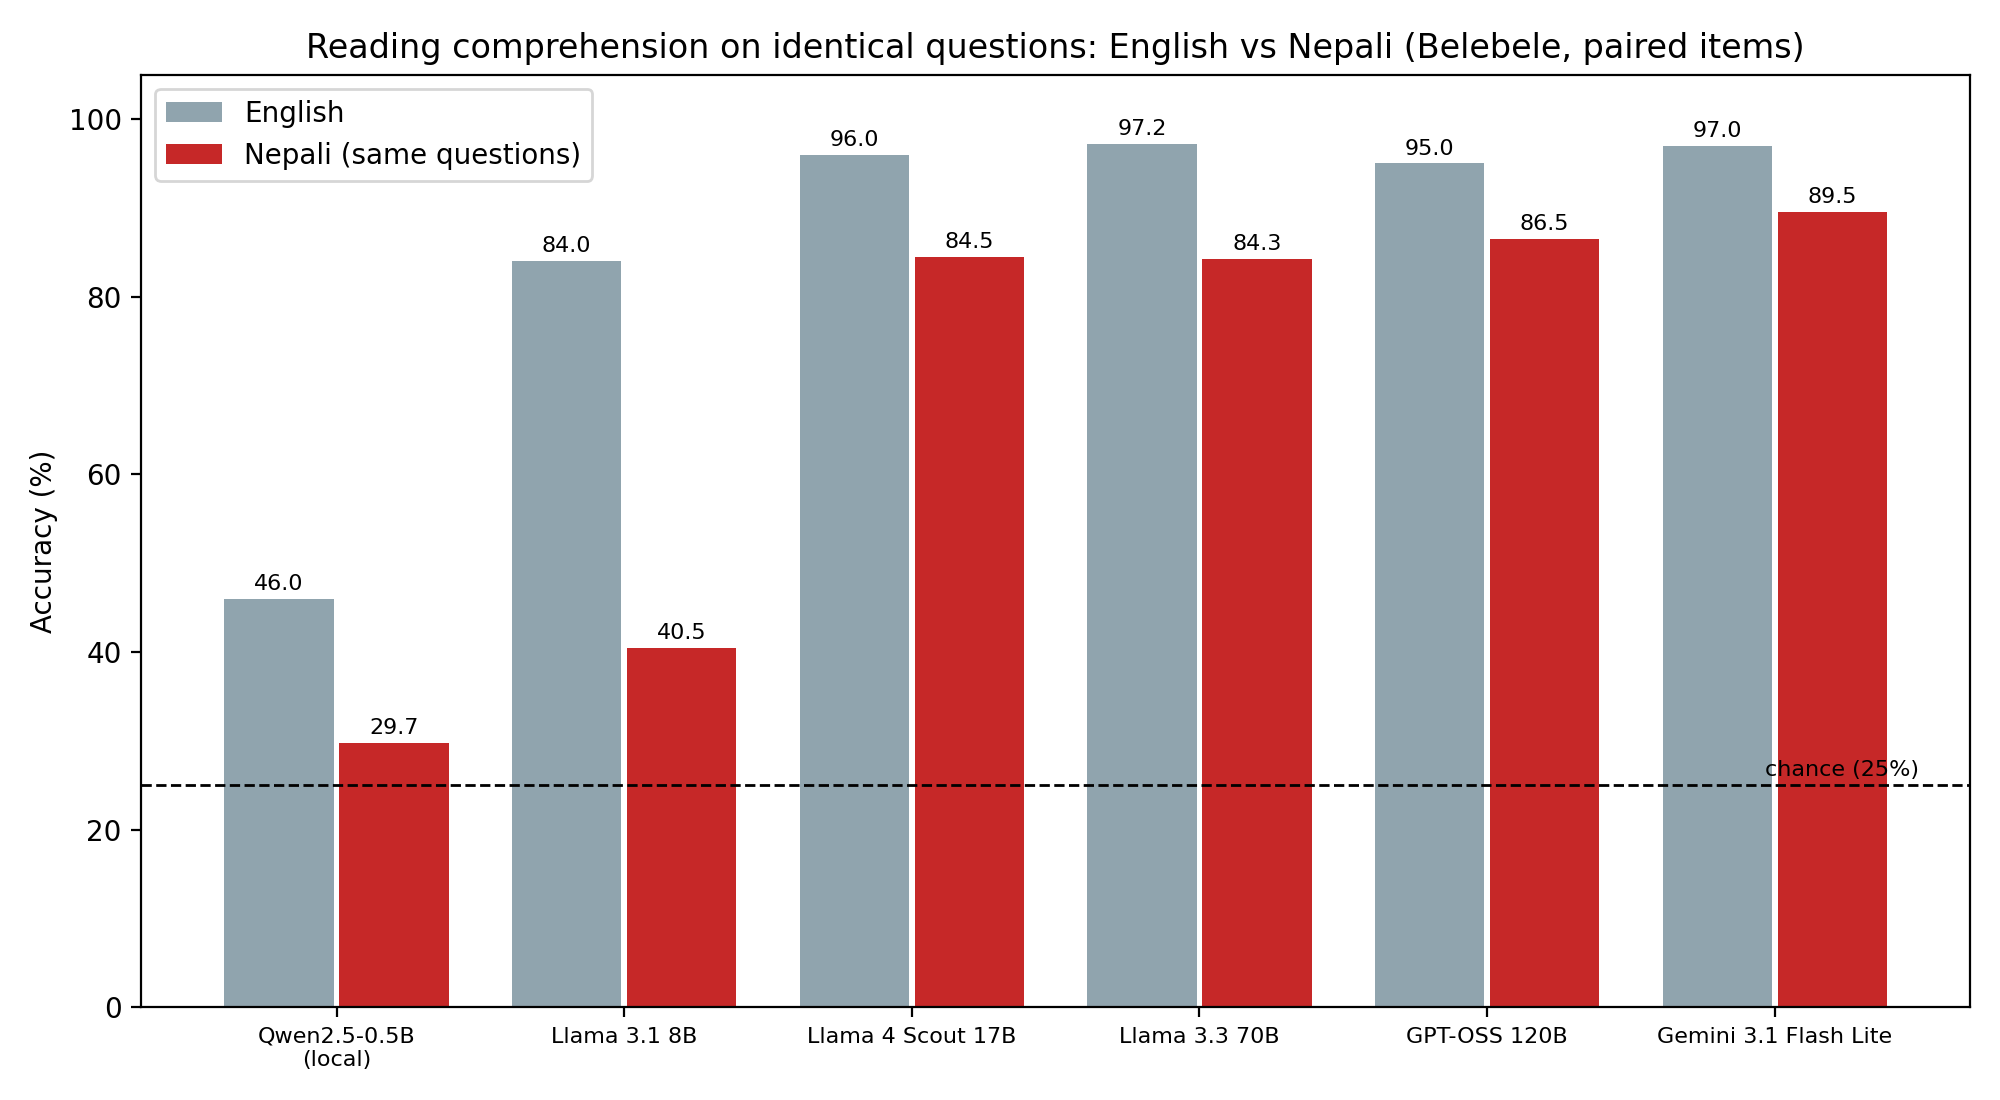
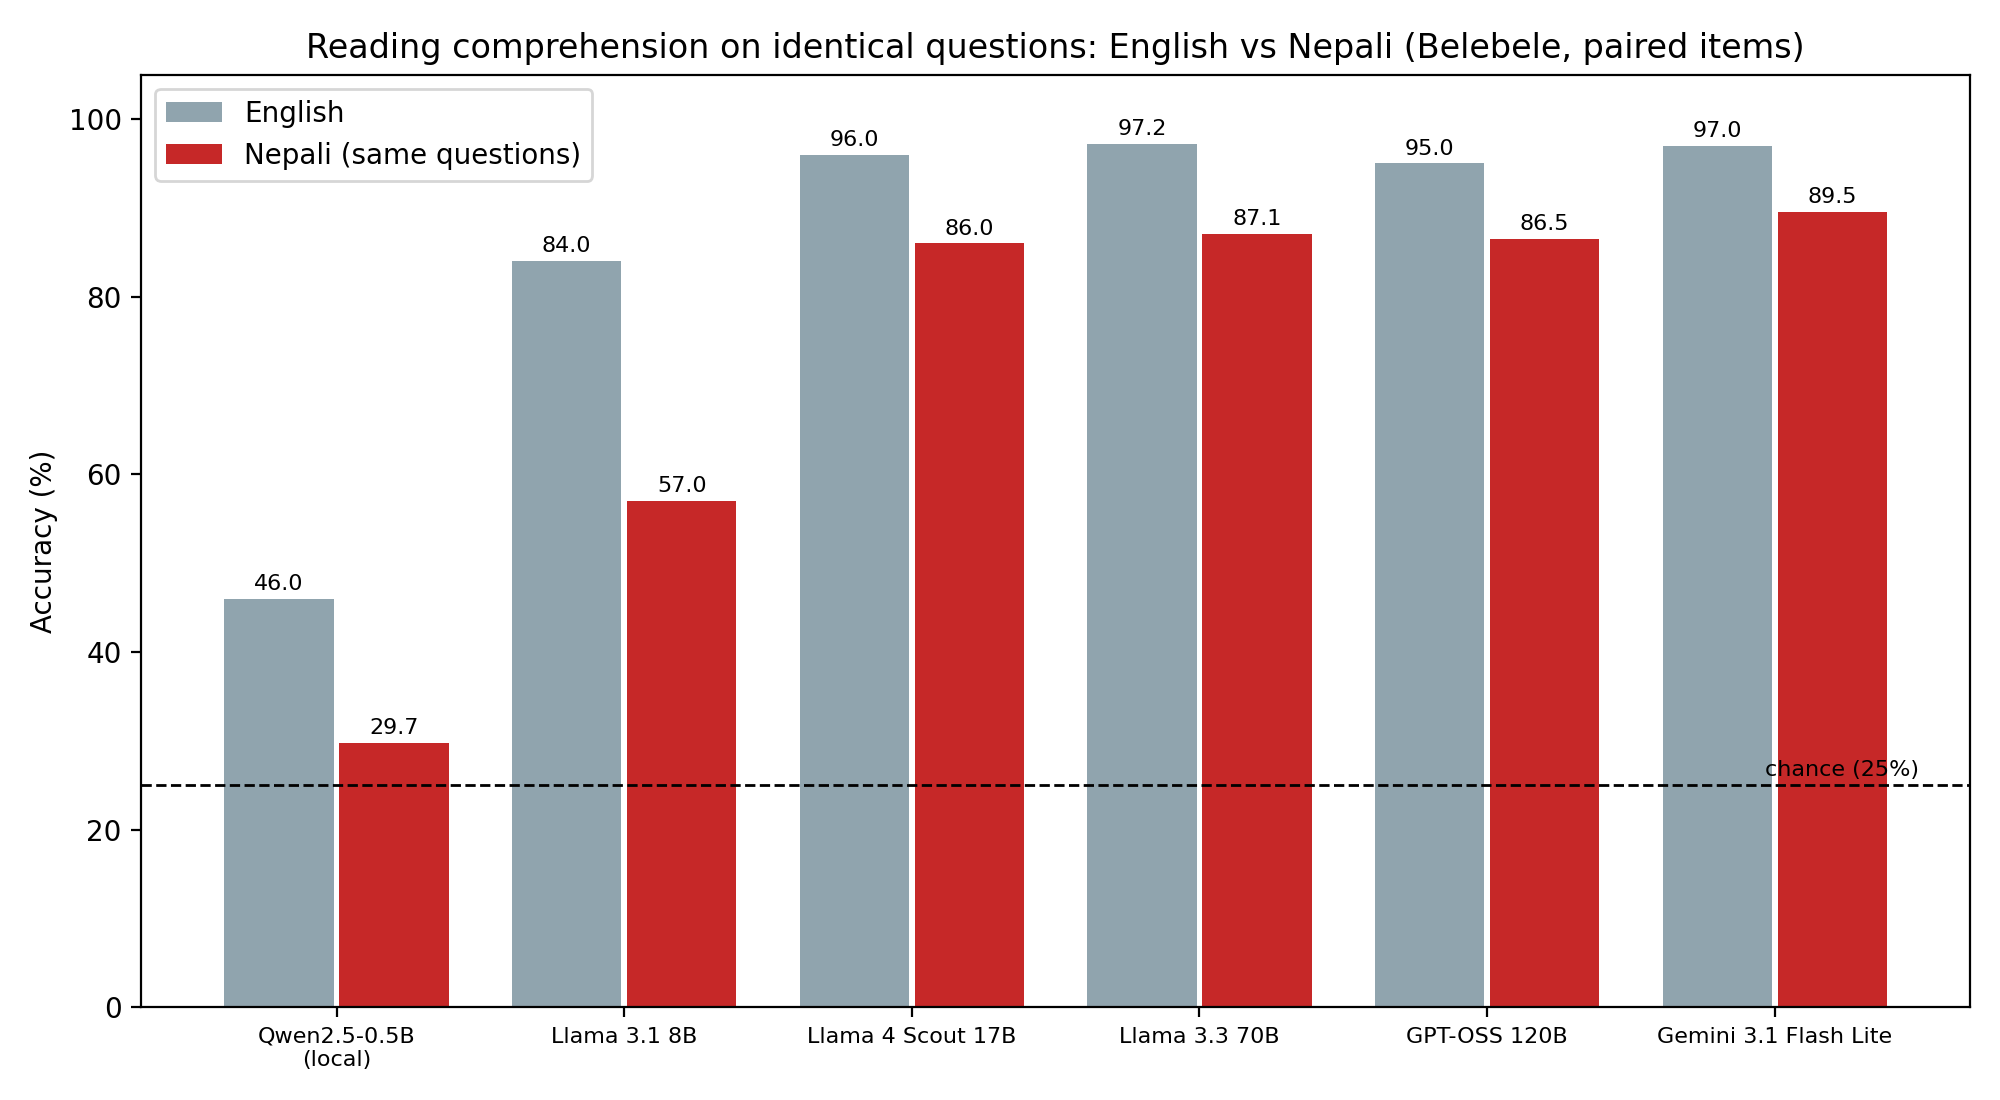
fix(task2): parse Devanagari numeral answers; re-score raw outputs; corrected analysis and figures

Changed region(s): [[0.31, 0.4327, 0.372, 0.5873], [0.589, 0.1855, 0.651, 0.2473], [0.465, 0.1855, 0.527, 0.2473]]

diff --git a/src/task2_qa_api.py b/src/task2_qa_api.py
@@ -104,9 +104,18 @@ def call_model(provider, model_id, prompt):
     raise ValueError(provider)
 
 
+DEVANAGARI_DIGITS = {"\u0967": 1, "\u0968": 2, "\u0969": 3, "\u096a": 4}
+
+
 def parse_answer(text):
-    m = re.search(r"[1-4]", text)
-    return int(m.group()) if m else None
+    """First option number in the reply; accepts ASCII 1-4 and
+    Devanagari numerals (some models answer in the script of the
+    question)."""
+    m = re.search(r"[1-4\u0967-\u096a]", text)
+    if not m:
+        return None
+    ch = m.group()
+    return DEVANAGARI_DIGITS.get(ch, int(ch) if ch.isdigit() else None)
 
 
 def load_items(lang):

diff --git a/README.md b/README.md
@@ -40,11 +40,15 @@ NLLB-200. Tokenizer design, not the Devanagari script, drives the cost.
 | Model | n | Acc EN | Acc NE | Drop | McNemar p |
 | --- | --- | --- | --- | --- | --- |
 | Qwen2.5-0.5B (local) | 37 | 46.0 | 29.7 | 16.2 | 0.18 |
-| Llama 3.1 8B | 200 | 84.0 | 40.5 | 43.5 | 2.7e-23 |
-| Llama 4 Scout 17B | 200 | 96.0 | 84.5 | 11.5 | 5.7e-06 |
-| Llama 3.3 70B | 178 | 97.2 | 84.3 | 12.9 | 2.4e-07 |
+| Llama 3.1 8B | 200 | 84.0 | 57.0 | 27.0 | 6.3e-14 |
+| Llama 4 Scout 17B | 200 | 96.0 | 86.0 | 10.0 | 3.6e-05 |
+| Llama 3.3 70B | 178 | 97.2 | 87.1 | 10.1 | 7.6e-06 |
 | GPT-OSS 120B | 200 | 95.0 | 86.5 | 8.5 | 4.9e-04 |
 | Gemini 3.1 Flash Lite | 200 | 97.0 | 89.5 | 7.5 | 6.1e-05 |
+
+Note: answers given in Devanagari numerals (for example ।२। style
+digits like ४ for 4) are accepted as valid; Llama 3.1 8B replied with
+Devanagari numerals on 71 of 200 Nepali items.
 
 **Task 3, sentiment on native informal Nepali (chance 33.3%).** Best is
 GPT-OSS 120B at 67.1% accuracy (n=158); Llama 8B reaches only 51.9%.